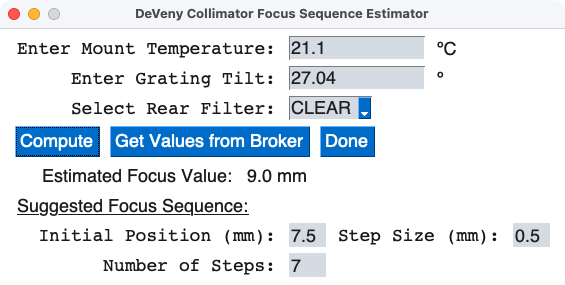
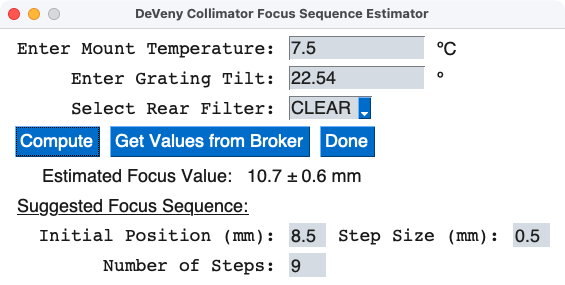
Working on documentation
modified:   doc/deveny_collfocus.rst
	modified:   doc/deveny_grangle.rst
	modified:   doc/dfocus.rst
	modified:   doc/figures/deveny_collfocus_values.png
	new file:   doc/figures/deveny_grangle_startup.png
	new file:   doc/figures/deveny_grangle_values.png
	modified:   doc/fix_ldt_header.rst
	modified:   doc/help/dfocus.rst
	modified:   doc/include/dependencies_table.rst
	modified:   doc/index.rst
	modified:   doc/input_validator.rst
	modified:   doc/lmi_etc.rst
	modified:   doc/neocp_ephem.rst
	modified:   doc/observer_target.rst
	modified:   doc/scrub_deveny_pickup.rst
	modified:   obstools/deveny_collfocus.py
	modified:   obstools/dfocus.py
	modified:   obstools/scrub_deveny_pickup.py
	modified:   obstools/utils.py
	modified:   setup.cfg

diff --git a/obstools/deveny_collfocus.py b/obstools/deveny_collfocus.py
@@ -28,6 +28,7 @@ incorporated into the LDTObserverTools package.
 """
 
 # Built-In Libraries
+import argparse
 import os
 import sys
 
@@ -50,19 +51,29 @@ MIN_COLLFOC = 7.5  # Smallest collimator focus value (in mm)
 STEPSIZE = 0.5  # Default step size (in mm)
 
 
-def deveny_collfocus():
+def deveny_collfocus(debug: bool = False):
     """Main Driver for the DeVeny Collimator Focus Sequence Estimator GUI
 
     Compute the estimated focus and LOUI Focus Sequence range given the mount
     temperature, grating tilt angle, and presence of an order-blocking filter.
     Optionally, read in the current mount temperature and grating tilt angle
     from the ActiveMQ broker, if running at the site.
+
+    Parameters
+    ----------
+    debug : :obj:`bool`, optional
+        Print debug statements?  (Default: False)
     """
     # Check that stomp was imported (in broker_listener) and that the config file exists
     use_stomp = "stomp" in sys.modules and (utils.CONFIG / "activemq_joe.yaml").exists()
     # Fire up the broker Listener
     if use_stomp:
         am_radio = broker_listener.ActiveMQ_Listener(utils.CONFIG / "activemq_joe.yaml")
+    if debug:
+        print(
+            f"The parts of use_stomp = {use_stomp}:  sys.modules = {'stomp' in sys.modules}  "
+            f"config exists = {(utils.CONFIG / 'activemq_joe.yaml').exists()}"
+        )
 
     # Define the color scheme for the GUI
     sg.theme(utils.SG_THEME)
@@ -172,7 +183,7 @@ def deveny_collfocus():
             focseq_range = calculate_focus_sequence(est_focus)
 
             # Update the window with the calculated values
-            window["-FOCUSOUT-"].update(f"{np.round(est_focus,1)} mm")
+            window["-FOCUSOUT-"].update(f"{np.round(est_focus,1)} ± 0.6 mm")
             window["-STARTPOS-"].update(f"{np.round(focseq_range[0],1)}")
             window["-STEPSIZE-"].update(f"{np.round(focseq_range[1],1)}")
             window["-NSTEPS-"].update(f"{focseq_range[2]}")
@@ -333,6 +344,9 @@ class DevenyCollfocus(scriptbase.ScriptBase):
         parser = super().get_parser(
             description="DeVeny Collimator Focus Sequence Estimator", width=width
         )
+        parser.add_argument(
+            "-d", "--debug", action="store_true", default=False, help=argparse.SUPPRESS
+        )
         return parser
 
     @staticmethod
@@ -342,4 +356,4 @@ class DevenyCollfocus(scriptbase.ScriptBase):
         Simple function that calls the main driver function.
         """
         # Giddy up!
-        deveny_collfocus()
+        deveny_collfocus(debug=args.debug)

diff --git a/obstools/scrub_deveny_pickup.py b/obstools/scrub_deveny_pickup.py
@@ -1666,13 +1666,13 @@ class ScrubDevenyPickup(scriptbase.ScriptBase):
             "--diagnostics",
             action="store_true",
             help="Output additional information and plots during the analysis for "
-            "debugging purposes",#argparse.SUPPRESS
+            "debugging purposes",  # argparse.SUPPRESS
         )
         parser.add_argument(
             "-n",
             "--no_refit",
             action="store_true",
-            help="Force no refit of 'bad' RMS values"#argparse.SUPPRESS
+            help="Force no refit of 'bad' RMS values",  # argparse.SUPPRESS
         )
         # Produce multiple graphics outputs for the documentation -- HIDDEN
         parser.add_argument("-g", action="store_true", help=argparse.SUPPRESS)

diff --git a/obstools/dfocus.py b/obstools/dfocus.py
@@ -869,7 +869,7 @@ class DFocus(scriptbase.ScriptBase):
         )
         parser.add_argument(
             "--nodisplay",
-            action="store_false",
+            action="store_true",
             help="DO NOT launch Preview.app to display plots",
         )
         return parser
@@ -885,5 +885,5 @@ class DFocus(scriptbase.ScriptBase):
             pathlib.Path(".").resolve(),
             flog=args.flog,
             thresh=args.thresh,
-            launch_preview=args.nodisplay,
+            launch_preview=not args.nodisplay,
         )

diff --git a/obstools/utils.py b/obstools/utils.py
@@ -26,17 +26,19 @@ from importlib import resources
 import warnings
 
 # 3rd-Party Libraries
+import darkdetect
 import matplotlib.pyplot as plt
 import numpy as np
 import scipy.optimize
 
-
 # Local Libraries
 
+
 # CONSTANTS
-SG_THEME = "light grey 1"
 CONFIG = resources.files("obstools") / "config"
 DATA = resources.files("obstools") / "data"
+# Modify SG theme based on system Light/Dark theme
+SG_THEME = "dark gray 14" if darkdetect.isDark() else "light grey 1"
 
 
 def check_float(potential_float) -> bool:

diff --git a/doc/deveny_grangle.rst b/doc/deveny_grangle.rst
@@ -1,3 +1,10 @@
+.. include:: include/links.rst
+
+.. |nbsp| unicode:: 0xA0 
+   :trim:
+
+.. _deveny_grangle:
+
 ===============================
 DeVeny Grating Angle Calculator
 ===============================
@@ -7,14 +14,41 @@ Status: Completed 2021-01-26
 Overview
 ========
 
-   - ``deveny_grangle``: Compute the desired grating angle based on selected
-     grating and desired central wavelength.  This routine comes with two interfaces.
-     The default GUI features a dropdown menu for grating selection and contains error
-     checking on the input for central wavelength.  There is a ``MAX_GUI`` option for
-     computing central wavelength given the grating angle in addition to the standard
-     GUI features.  Also included is a command-line interface, identical to the old
-     IDL function.  Online help is available with the ``-h`` option.
-     [`Completed: 2021-01-26`]
+.. _grateq:
+
+The Grating Equation
+^^^^^^^^^^^^^^^^^^^^
+
+The angles at which the diffracted light reflects off the grating are given
+by the grating equation:
+
+.. math::
+
+    \begin{equation}
+    m\lambda = d(\sin \theta _{i}-\sin \theta _{m})~,
+    \end{equation}
+
+where :math:`d` is the spacing between adjacent grooves on the grating,
+:math:`\theta_{i} = \theta_{\rm grangle} + 10^{\circ}` is the incident angle,
+and :math:`\theta_{m} = 55^{\circ} - \theta_{i}` is the outgoing angle for light
+with wavelength :math:`\lambda` diffracting into order :math:`m` (see the
+DeVeny user manual for a description of the physical layout of the
+spectrograph).  The DeVeny gratings are typically operated in
+1\ :superscript:`st`\  order (:math:`m = 1`), although use of :math:`m=2` would
+possible with the proper short-pass order-blocking filters to remove
+1\ :superscript:`st`\ -order light.
+
+This tool computes the necessary tilt :math:`\theta_{\rm grangle}` by
+numerically solving the equation below for a given grating.  The computation
+uses the groove density (in g/mm) in place of :math:`d`, and finds
+:math:`\theta_{\rm grangle}` for a specified 1\ :superscript:`st`\ -order
+central wavelength (:math:`\lambda_c`) in Angstroms on the spectral CCD.
+
+.. math::
+
+    \begin{equation}
+    \lambda_c~({\rm \mathring{A}}) = \frac{\sin(\theta_{\rm grangle} +10^{\circ}) - \sin(45^{\circ} - \theta_{\rm grangle})}{ {\rm groove~density~(g/mm)} }\times 10^7
+    \end{equation}
 
 
 Usage
@@ -24,3 +58,26 @@ The script usage can be displayed by calling the script with the
 ``-h`` option:
 
 .. include:: help/deveny_grangle.rst
+
+In its default mode, the tool launches a GUI window:
+
+.. image:: figures/deveny_grangle_startup.png
+    :class: with-shadow
+
+Select your grating from the dropdown menu (this selects the groove density),
+and enter your desired central wavelength (in angstroms).  When you click
+"Compute", the bottom half of the GUI is populated with the needed grating tilt
+value from the equation above and the computed slit demagnification value (see
+the DeVeny user manual for a brief discussion of grating physics):
+
+.. image:: figures/deveny_grangle_values.png
+    :class: with-shadow
+
+There are two optional modes for running this tool:
+
+    * ``--cli``: A command-line version of this tool, which looks and functions
+      identical to the old IDL routine with the same name.
+
+    * ``--max``: The GUI will have the option to compute the central wavelength
+      from :math:`\theta_{\rm grangle}` in addition to the forward calculation
+      done in the default mode.

diff --git a/doc/include/dependencies_table.rst b/doc/include/dependencies_table.rst
@@ -1,5 +1,5 @@
-=======================  ==========================================================================================================================================================================================
-Python Version           ``>=3.10``                                                                                                                                                                                
-Required for users       ``astropy>=5.1``, ``ccdproc``, ``matplotlib``, ``numpy>=1.22``, ``pypeit[specutils]>=1.14.0``, ``pysimplegui``, ``requests``, ``scipy>=1.9``, ``setuptools``, ``setuptools_scm``, ``tqdm``
-Required for developers  ``black``, ``pylint``, ``pyyaml``, ``sphinx``, ``sphinx-automodapi``, ``sphinx_rtd_theme==1.2.2``, ``stomp.py``, ``xmltodict``                                                            
-=======================  ==========================================================================================================================================================================================
+=======================  ==========================================================================================================================================================================================================
+Python Version           ``>=3.10``                                                                                                                                                                                                
+Required for users       ``astropy>=5.1``, ``ccdproc``, ``darkdetect``, ``matplotlib``, ``numpy>=1.22``, ``pypeit[specutils]>=1.14.0``, ``pysimplegui``, ``requests``, ``scipy>=1.9``, ``setuptools``, ``setuptools_scm``, ``tqdm``
+Required for developers  ``black``, ``pylint``, ``pyyaml``, ``sphinx``, ``sphinx-automodapi``, ``sphinx_rtd_theme==1.2.2``, ``stomp.py``, ``xmltodict``                                                                            
+=======================  ==========================================================================================================================================================================================================

diff --git a/doc/scrub_deveny_pickup.rst b/doc/scrub_deveny_pickup.rst
@@ -1,3 +1,10 @@
+.. include:: include/links.rst
+
+.. |nbsp| unicode:: 0xA0 
+   :trim:
+
+.. _scrub_deveny_pickup:
+
 ============================
 DeVeny Pickup Noise Scrubber
 ============================
@@ -112,7 +119,7 @@ Data Processing Steps
 
    .. warning::
 
-      If you are using a version of PypeIt ``< 1.14.1`` (see the top line of
+      If you are using a version of PypeIt ``< 1.15.0`` (see the top line of
       the PypeIt Reduction File for the version number), then you will instead
       need to add the entirety of the following to the Parameter Block to
       ensure the traced slit edges do not shrink unreasonably and that pattern
@@ -120,7 +127,7 @@ Data Processing Steps
       Regions outside the marked slits will have 0 value in the residual image,
       and therefore any sinusoidal signal there will not be fit out.  (The
       additional parameters included here were added to the DeVeny default set
-      in PypeIt version ``1.14.1``.)
+      in PypeIt version ``1.15.0``.)
 
       .. code-block:: ini
 

diff --git a/doc/deveny_collfocus.rst b/doc/deveny_collfocus.rst
@@ -1,3 +1,10 @@
+.. include:: include/links.rst
+
+.. |nbsp| unicode:: 0xA0 
+   :trim:
+
+.. _deveny_collfocus:
+
 =================================
 DeVeny Collimator Focus Estimator
 =================================
@@ -26,7 +33,8 @@ yield the approximate relationship:
     \end{aligned}
 
 where :math:`T_{\rm m}` is the mount temperature and tilt is the grating tilt
-angle.  This equation is coded into the GUI tool.
+angle.  The RMS of the fit is :math:`\sim 0.6` |nbsp| mm.  This equation is coded into
+the GUI tool.
 
 Unlike other focus procedures at LDT, the DeVeny LOUI focus sequence script
 does not take the *expected* focus value, but rather one end of the range,

diff --git a/doc/neocp_ephem.rst b/doc/neocp_ephem.rst
@@ -1,3 +1,10 @@
+.. include:: include/links.rst
+
+.. |nbsp| unicode:: 0xA0 
+   :trim:
+
+.. _neocp_ephem:
+
 =========================================
 NEO Confirmation Page Ephemeris Generator
 =========================================
@@ -16,4 +23,7 @@ Overview
 Usage
 =====
 
-Yeah, use it!
+The script usage can be displayed by calling the script with the
+``-h`` option:
+
+.. include:: help/neocp_ephem.rst

diff --git a/doc/help/dfocus.rst b/doc/help/dfocus.rst
@@ -9,5 +9,5 @@
       -h, --help       show this help message and exit
       --flog FLOG      focus log to use (default: last) (default: last)
       --thresh THRESH  threshold for line detection (default: 100) (default: 100.0)
-      --nodisplay      DO NOT launch Preview.app to display plots (default: True)
+      --nodisplay      DO NOT launch Preview.app to display plots (default: False)
     

diff --git a/doc/lmi_etc.rst b/doc/lmi_etc.rst
@@ -1,3 +1,10 @@
+.. include:: include/links.rst
+
+.. |nbsp| unicode:: 0xA0 
+   :trim:
+
+.. _lmi_etc:
+
 ============================
 LMI Exposure Time Calculator
 ============================
@@ -14,4 +21,7 @@ Overview
 Usage
 =====
 
-Yeah, use it!
+The script usage can be displayed by calling the script with the
+``-h`` option:
+
+.. include:: help/lmi_etc.rst

diff --git a/doc/dfocus.rst b/doc/dfocus.rst
@@ -1,3 +1,10 @@
+.. include:: include/links.rst
+
+.. |nbsp| unicode:: 0xA0 
+   :trim:
+
+.. _dfocus:
+
 ==================================
 DeVeny Collimator Focus Calculator
 ==================================
@@ -29,3 +36,4 @@ The script usage can be displayed by calling the script with the
 ``-h`` option:
 
 .. include:: help/dfocus.rst
+  
